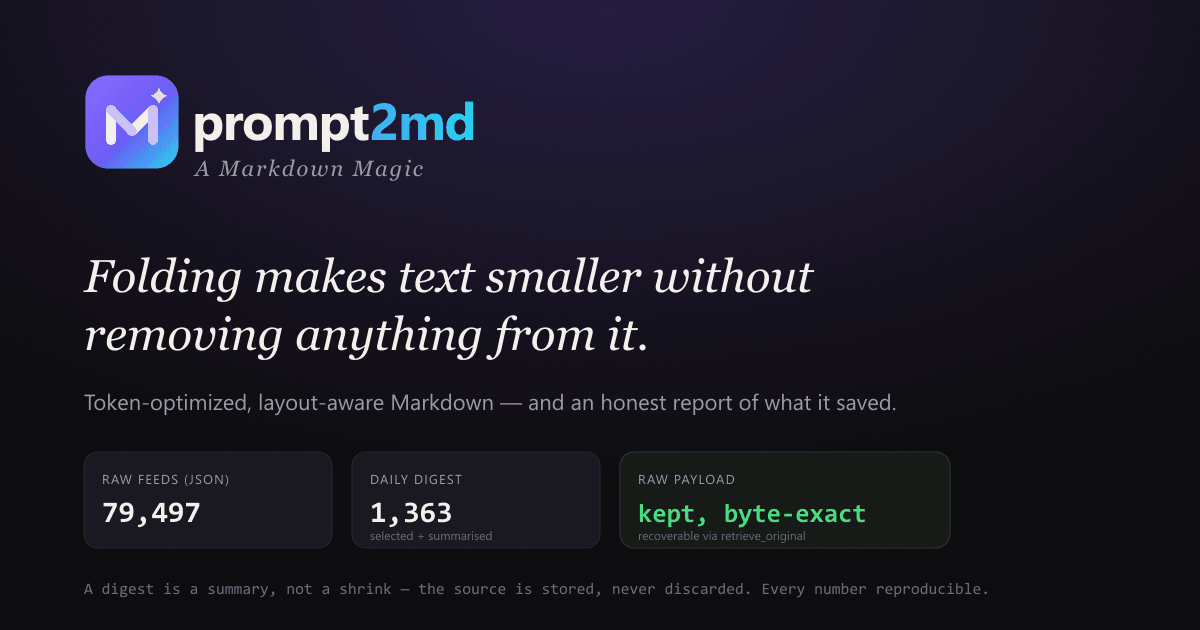
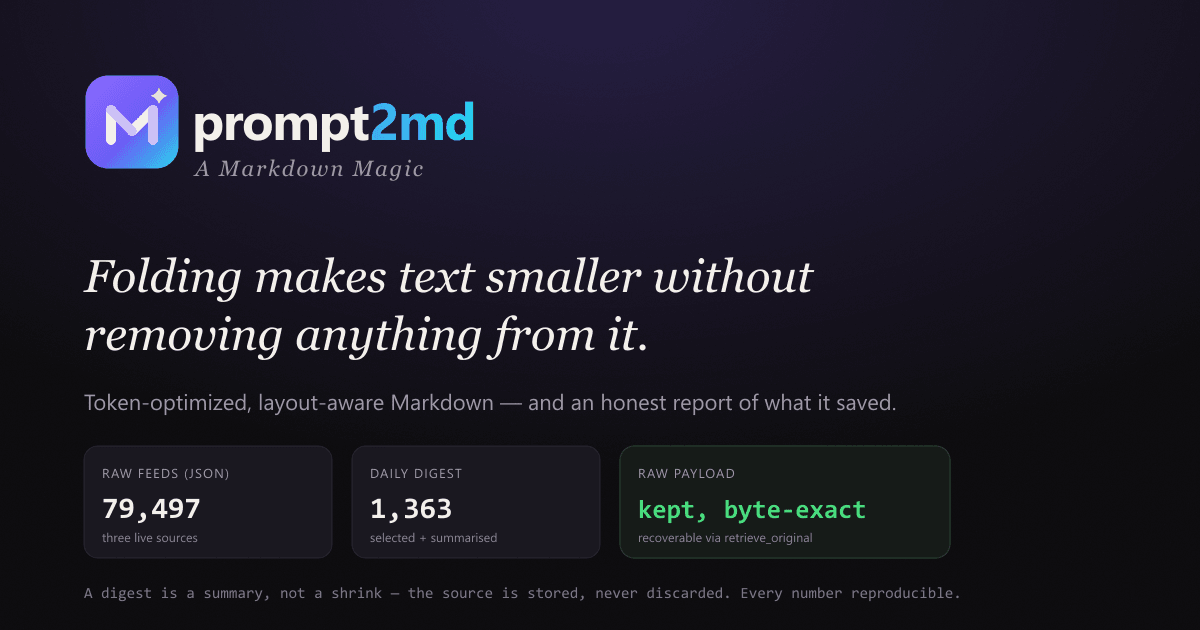
feat(ci): verify every number the project states about itself
Bumping "126 tests" to 131 only reset the clock - the next time a suite
grows, the claim goes stale again silently. That is how the wrong number
survived several commits.

Numbers the site states now live in apps/web/lib/facts.ts, and
scripts/check-claims.mjs re-derives each one from reality:

  - test counts by RUNNING the suites. Counting `it(` calls under-reports
    by ten, because the core package generates cases from the fixture
    corpus - so the naive guard would itself have been wrong.
  - the representative conversion figure by running the real pipeline
  - the supported-tool count from the installer's own target list
  - the README badge and development section, which repeat the counts
  - that no file pairs a savings percentage with the word "lossless",
    which conflates reduction with recoverability

Verified the guard actually fails: simulated the exact past regression
(E2E 13 to 14 with a stale claim) and a reintroduced "98.3% lossless"
line, and both were caught. Wired into CI as `pnpm check:claims`.

Also re-renders the social image. The honesty caveats sat cramped
against the tile borders and were too dim to read at thumbnail size -
which is precisely where a caveat needs to be legible. Taller tiles,
lighter sub-labels, verified by looking at the rendered PNG.

diff --git a/apps/web/lib/facts.ts b/apps/web/lib/facts.ts
@@ -1,0 +1,34 @@
+/**
+ * Every number this site states about itself, in one place.
+ *
+ * These are claims, and claims go stale — the landing page said "126 tests"
+ * for a while after the E2E suite grew to 13. So nothing here is trusted:
+ * `scripts/check-claims.mjs` re-derives each value from the real thing (runs
+ * the suites, runs the pipeline) and fails CI on any drift.
+ *
+ * If you change a number here, the check will tell you whether you were right.
+ */
+
+/** Unit + integration tests. Verified by running the suites, not by counting
+ *  `it(` calls — the core package generates cases from the fixture corpus. */
+export const UNIT_TESTS = 118;
+
+/** Selenium scenarios across the landing page and the studio. */
+export const E2E_TESTS = 13;
+
+export const TOTAL_TESTS = UNIT_TESTS + E2E_TESTS;
+
+/** Tools wired by a single `pnpm setup` run. */
+export const SUPPORTED_TOOLS = 6;
+
+/**
+ * A real measured conversion, used wherever the site needs a representative
+ * figure. Deliberately NOT the Daily Digest number: that run is a summary of
+ * raw JSON feeds and reduces to ~2%, which is an outlier and misleading as a
+ * headline. See docs/BRAND.md for the full table.
+ */
+export const SAMPLE_CONVERSION = {
+  label: "rambling chat prompt, no LLM key configured",
+  before: 150,
+  after: 120,
+} as const;

diff --git a/apps/web/app/page.tsx b/apps/web/app/page.tsx
@@ -1,6 +1,7 @@
 import Link from "next/link";
 import { LiveFold } from "../components/LiveFold";
 import { Reveal } from "../components/Reveal";
+import { SUPPORTED_TOOLS, TOTAL_TESTS } from "../lib/facts";
 
 export const metadata = {
   title: "prompt2md — token-optimized Markdown, and proof of what it saved",
@@ -94,7 +95,7 @@ export default function Home() {
       <section className="proof">
         <div className="container proof-row">
           <Reveal className="proof-item">
-            <strong>131</strong>
+            <strong>{TOTAL_TESTS}</strong>
             <span>tests, green on Linux &amp; Windows</span>
           </Reveal>
           <Reveal className="proof-item" delay={60}>
@@ -102,7 +103,7 @@ export default function Home() {
             <span>telemetry, accounts, or uploads</span>
           </Reveal>
           <Reveal className="proof-item" delay={120}>
-            <strong>6</strong>
+            <strong>{SUPPORTED_TOOLS}</strong>
             <span>tools wired by one command</span>
           </Reveal>
           <Reveal className="proof-item" delay={180}>
